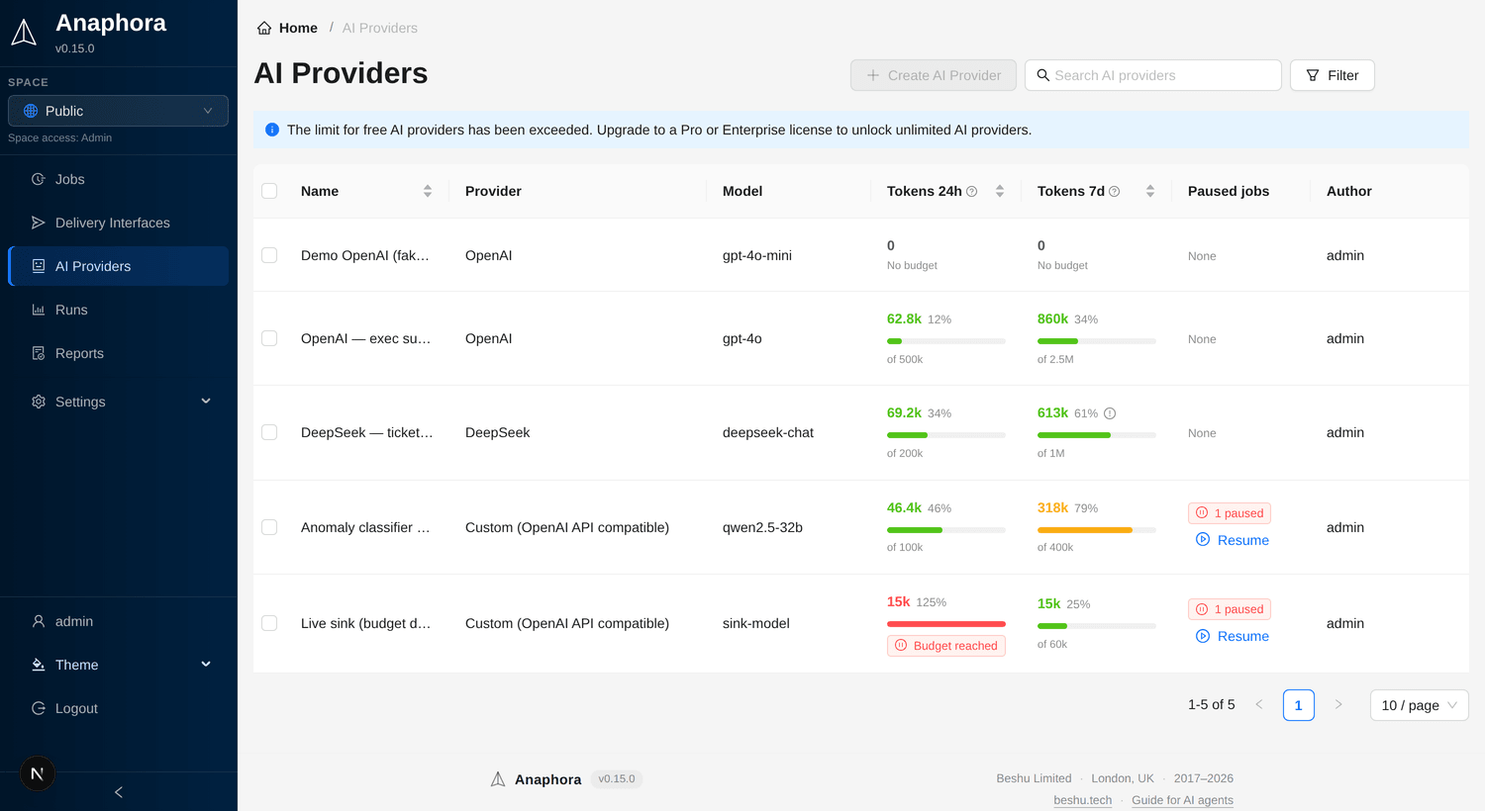
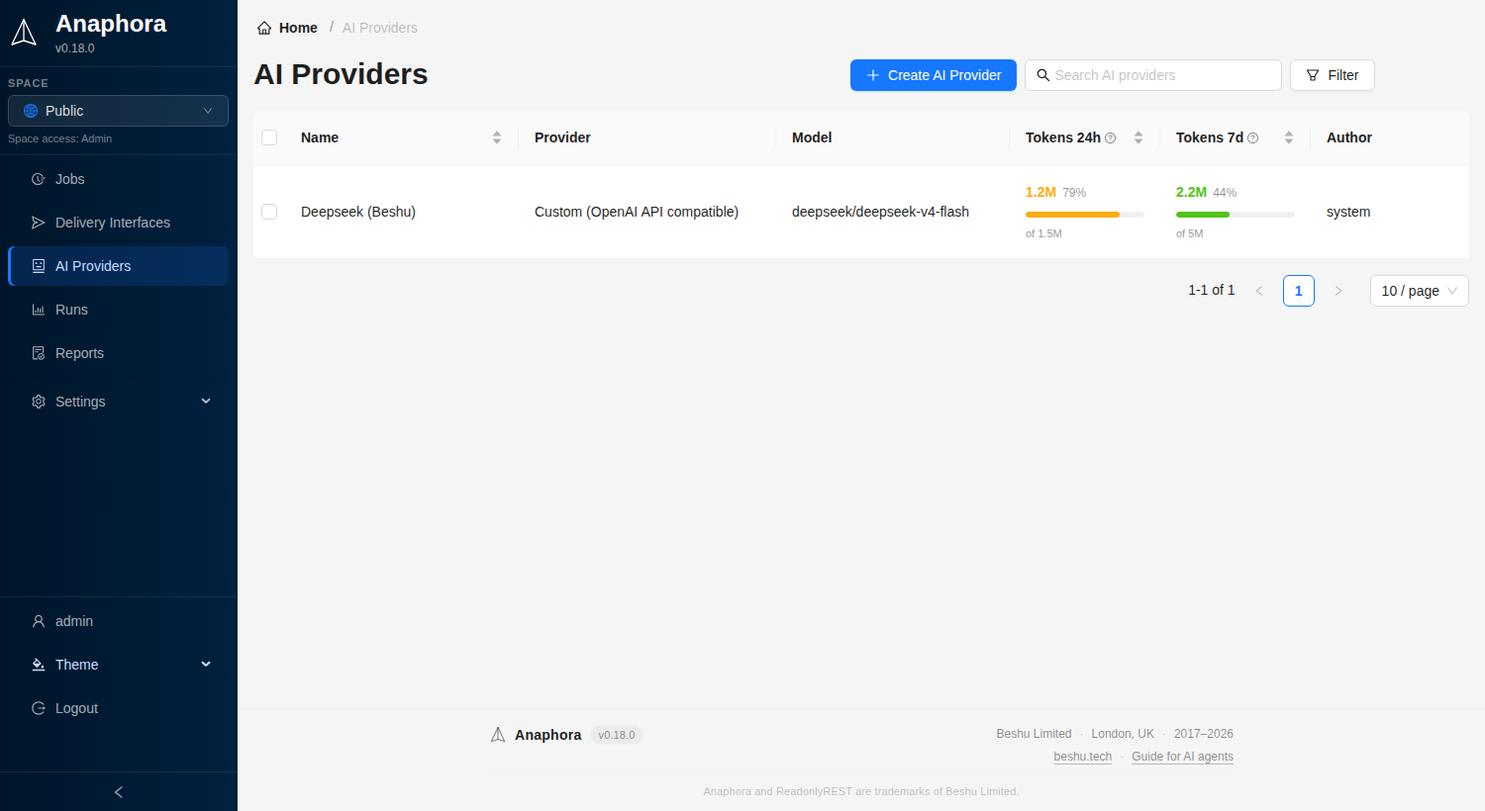
docs: the AI step and provider pages as F9 built them
An empty Time limit adds 60 seconds when the provider reasons: 120
with no tool, 150 with one. The line under the question of the
assistant follows the text: a question that asks for a trial says "It
may try the step." and counts three model calls. A trial on the values
of a run reads the notebook version that run read, and the trial card
says which. An answer gives at most one suggestion for each section.
The provider Test says why a step sends no answer schema. Look at
earlier runs gives the status in the words of the Runs page. The
assistant reads a yes/no block as "page_now is No".

Ten screenshots come from the production build of develop 5fe4c443.
The captions and the examples near each image give its numbers and
words. The Paused jobs column shows only when a budget paused a job.

diff --git a/docs/jobs/ai-step.md b/docs/jobs/ai-step.md
@@ -244,7 +244,8 @@ The tools of the step, in two groups.
   step fills. A run never reads from earlier runs a variable that **Can see** does not send. When you choose one, the
   section names it, for example "Can see does not send errorsNow, so the step does not read it from earlier runs."
   The AI gets the start time of each run in the time zone of the server (`TZ`), with the zone named, for example
-  "2026-10-11 19:48 Europe/Rome (UTC+02:00)", or "2026-10-11 17:48 UTC" on a server in UTC.
+  "2026-10-11 19:48 Europe/Rome (UTC+02:00)", or "2026-10-11 17:48 UTC" on a server in UTC. It gets the status of each
+  run as the Runs page shows it: "Success", "Error", "Delivery issue" or "Stopped at Break".
 - **Do exact math**: exact math on an expression, with the engine of the **Calculate** action.
 
 **Reaches out** (sends data out): **Browse**, **Fetch from the web** and **MCP servers**. These are not available yet.
@@ -284,12 +285,13 @@ notebook** in this step, a second line says so, for example "The new longest not
 you save the job." Until you save the job, **Save** keeps to the old limit.
 
 A run saves the notebook when the step ends, and only when the step succeeds or stops with **Keep what is filled in and
-go on**. Trials and Test captures read the notebook but never write it. A copy of the job, and a job made from a
-template, start with an empty notebook.
+go on**. Trials and Test captures read the notebook but never write it. A trial on the values of a run reads the
+version that run read: see [Try it](#try-it). A copy of the job, and a job made from a template, start with an empty
+notebook.
 
 #### Guardrails
 
-![Guardrails: every field empty, with the values that apply in grey (8 model calls, 12 tool calls, 29,000 tokens, 90 seconds, Provider default); "When a limit is reached"; and "What this step costs" from the trial of Oct 12, 00:04: 7,784 tokens a run, about 5.2M tokens a week, and no budget](images/ai-step-guardrails.png)
+![Guardrails: every field empty, with the values that apply in grey (8 model calls, 12 tool calls, 29,000 tokens, 150 seconds, Provider default); "When a limit is reached"; and "What this step costs" from the trial of Oct 12, 01:19: 11,394 tokens a run, every 15 minutes, about 7.7M tokens a week, and no budget](images/ai-step-guardrails.png)
 
 Limits on one run of the step, on top of the provider budget. An empty field shows in grey the value that applies,
 set from the step. Type a number to set your own. Until Anaphora has the estimate, an empty **Token cap for the step**
@@ -301,7 +303,7 @@ from its own values.
 | **Most model calls**       | Model calls                                              | With no tool: 1 for one plain answer (one variable, no yes/no, no **What it means**), 2 for a JSON answer (see [Fills in](#fills-in)). With a tool: 8                                                                       |
 | **Most tool calls**        | Tool calls                                               | With a tool: 12. With no tool: 0, and the field does not show unless the step sets it                                                                                                                                       |
 | **Token cap for the step** | Tokens of all the model calls together, input and output | Set from what the model gets, **Most model calls** and the hidden reasoning of the model: see below                                                                                                                         |
-| **Time limit**             | Seconds for the whole step                               | 60 with no tool, 90 with one. A step set up as before has no time limit                                                                                                                                                     |
+| **Time limit**             | Seconds for the whole step, 10 to 600                    | 60 with no tool, 90 with one, plus 60 when the provider reasons: 120 and 150 (see below). A step set up as before has no time limit                                                                                         |
 | **Answer length cap**      | Tokens of one answer                                     | The default of the provider                                                                                                                                                                                                 |
 
 An empty **Token cap for the step** gets:
@@ -322,6 +324,10 @@ For example, the step of the image above has a tool, and its first call sends ab
 of 29,000: 1,344 times 9, plus 8,000 twice, rounded up. On a provider whose Test saw no reasoning, the same step gets
 13,000. A step with no tool and a JSON answer that sends about 12,700 tokens gets 55,000: 12,700 times 3, plus 8,000
 twice, rounded up.
+
+An empty **Time limit** makes room for the hidden reasoning too, by the same rule: one model call can write 8,000
+tokens of reasoning, and that takes about 53 seconds. So a provider that reasons adds 60 seconds: 120 with no tool, 150
+with one. The step of the image above gets 150 seconds: 90 for its tool, plus 60.
 
 The token cap is checked before each model call: a call whose request would pass the cap is not made. Its answer is not
 known before, so a run can pass the cap by the answer of its last call. The tooltip of the field says the same. The
@@ -380,6 +386,11 @@ line at the top of the **Assistant** panel says which, for example "Values of th
 capture instead** and **Use the run instead** switch between the two. The assistant, **What the model gets** and the
 rows of [Can see](#can-see) use the same values.
 
+A trial on the values of a run reads what that run read: **Look at earlier runs** gets the runs before it, and the
+notebook is the version that run read, the last one saved before it started. **What the model gets** shows the same
+notebook. When **History** no longer keeps that version, the trial reads the notebook as it is now, and says so. A
+trial on a Test capture reads the notebook as it is now.
+
 A trial that takes more than 10 minutes stops with "The server did not finish in time. Try again." **What the model
 gets** stops the same way after 60 seconds.
 
@@ -403,34 +414,35 @@ The **Trial** panel shows:
 - **See every model call** and **What the model gets**;
 - the cost of a week at the schedule of the job, and its share of the provider budget, for example "Every 15 minutes,
   this costs about 1.1M tokens a week: 12% of the weekly budget of OpenAI." A provider with no budget gives no share,
-  for example "Every 15 minutes, this costs about 5.2M tokens a week. Deepseek (Beshu) has no budget." When the job is
+  for example "Every 15 minutes, this costs about 6.6M tokens a week. Deepseek (Beshu) has no budget." When the job is
   suspended, the line adds "The job is suspended now.". A daily job says "Daily at 04:05, this costs about …".
   A trial that did not finish gives no cost of a week, and the line says why, for example "This trial stopped at the
   time limit, so the cost of a week is not known.";
-- the notebook: what the trial would write, line by line, or "Not changed: the step wrote nothing new.";
+- the notebook: what the trial would write, line by line, or "Not changed: the step wrote nothing new." A line says
+  which version it read, for example "It read the notebook as that run did: saved Oct 12, 00:00.";
 - after a second trial, the previous trial in one line. **Compare** shows the two answers side by side, and marks each
   value that changed, or says "No change".
 
 **See every model call** opens **Every model call of the trial**. Each model call shows what it did ("Asks for Look at
 earlier runs · Read the notebook", "Answers"), its tokens and time. Open one to see the model request: its size and,
-for the first model call, the estimate by part, for example "Instructions 374 · Fills in 149 · Can do 452 · Notebook
-225 · errorsNow 4 · errors page 140"; the model response and how it ended ("ended with an answer", "asked for
+for the first model call, the estimate by part, for example "Instructions 374 · Fills in 149 · Can do 490 · Notebook
+228 · errorsNow 4 · errors page 140"; the model response and how it ended ("ended with an answer", "asked for
 tools"); and each tool call with its input and output. A long tool output is cut in the trace, and says so, for example
 "Cut: the trace keeps the first 8,192 characters of 21,394." **Copy trace** and **Raw JSON** are at the top. With two
 or more model calls, **Expand all** is there too.
 
-A model call with hidden reasoning gives its size in the heading, for example "11,779 tokens (7,830 reasoning) · 1.2 s",
-and in the model response, for example "7,950 tokens, of them 7,830 reasoning · asked for tools". See [Hidden
+A model call with hidden reasoning gives its size in the heading, for example "2,048 tokens (241 reasoning) · 2.8 s",
+and in the model response, for example "312 tokens, of them 241 reasoning · asked for tools". See [Hidden
 reasoning](#hidden-reasoning).
 
 Under the buttons, one line gives the limits that the trial applied, for example "Limits of this trial: 8 model calls,
-12 tool calls, 29,000 tokens and 90 seconds; a limit fails the run." A step with no tool gets 0 tool calls, and the
-line leaves them out, for example "Limits of this run: 2 model calls, 12,000 tokens and 60 seconds; a limit fails the
-run." With **Keep what is filled in and go on**, the line ends "at a limit the step keeps what it filled." A step set
+12 tool calls, 29,000 tokens and 150 seconds; a limit fails the run." A step with no tool gets 0 tool calls, and the
+line leaves them out, for example, on a provider that does not reason, "Limits of this run: 2 model calls, 12,000
+tokens and 60 seconds; a limit fails the run." With **Keep what is filled in and go on**, the line ends "at a limit the step keeps what it filled." A step set
 up before the AI step has no limit, for example "Limits of this run: none." A trace from before Anaphora kept the
 limits has no such line.
 
-![Every model call of the trial: 3 model calls, 3 tool calls and 7,784 tokens, the limits of the trial, and model call 1 open: it asks for Look at earlier runs and Read the notebook, with the request, the response with 60 tokens of reasoning, and the output of Look at earlier runs in local time](images/ai-step-every-step.png)
+![Every model call of the trial: 4 model calls, 4 tool calls, 11,394 tokens and 8.8 s; the limits of the trial, with 150 seconds; and model call 1 open, 2,048 tokens with 241 of reasoning: it asks for Look at earlier runs and Read the notebook, with the request and its estimate by part, the response, and the output of Look at earlier runs in local time, where two runs have the status "Stopped at Break"](images/ai-step-every-step.png)
 
 **What the model gets** opens what the first model call sends: the system message, the user message, how the answer is
 asked for (from **Fills in**), the tools it may call (from **Can do**), the tokens of each part, and **Not sent, and
@@ -458,16 +470,22 @@ How the answer is asked for follows the provider's **Test** (see
 
 ## The assistant
 
-![The assistant panel after one answer: the values of its trial (page_now No, errorTrend "steady", page_reason), "It spent 10,484 tokens over 3 model calls and 3 tool calls.", no change to the Conditional block, a group of 3 changes with Show each and Undo all, the trial with Open, "This answer: 35,245 tokens", and "An answer costs about 24,761 tokens."](images/ai-step-assistant.png)
+![The assistant panel after one answer, on the values of the run of Oct 12, 00:02: the question, which ends "Then try it."; the values of its trial (page_now: Yes, errorTrend: "worse", page_reason); its reasoning; "The trial made 3 model calls and 4 tool calls, and spent 8,357 tokens."; a group of 3 changes with Show each and Undo all; the trial with Open; "This answer: 33,387 tokens"; and, under the empty field, "An answer costs about 16,000 tokens. It tries the step only when you ask. A trial adds its own tokens."](images/ai-step-assistant.png)
 
 The **Assistant** panel is above the trial. It works on the same values as **Try it**. Write a question or a change in
-**Ask, or say what to change**, and click **Send**. The line under the field says what an answer costs, for example
-"An answer costs about 15,400 tokens. It tries the step only when you ask. A trial adds its own tokens." The estimate
-counts two model calls: one that makes the changes, and one that answers. An answer that tries the step makes one more:
-one model call asks for the trial, the next reads it, the last answers. After the answer, "This answer: 35,245
-tokens" says what it cost, its trials included. The line under the field then gives what that answer cost without the
-tokens of its trials, for example "An answer costs about 24,761 tokens.": 35,245 tokens minus the 10,484 tokens of
-the trial.
+**Ask, or say what to change**, and click **Send**. The line under the field says what an answer to the text in the
+field costs, and changes while you type:
+
+- A question that does not ask for a trial counts two model calls: one that makes the changes, and one that answers.
+  For example "An answer costs about 16,000 tokens. It tries the step only when you ask. A trial adds its own tokens."
+- A question that asks for a trial, and each question on the **Try** screen of a new step, counts one more: one model
+  call asks for the trial, the next reads it, the last answers. For example, before the question of the image went,
+  the line said "An answer costs about 25,800 tokens. It may try the step. A trial adds its own tokens."
+
+After the answer, "This answer: 33,387 tokens" says what it cost, its trials included: 25,030 tokens of the assistant
+and 8,357 of the trial. From then on, the line gives what the last answer of the same kind cost, without its trials:
+an answer that may try the step and one that may not each have their own figure. Until an answer of that kind comes,
+the line gives the estimate, as under the empty field of the image.
 
 The assistant may change this step, and only this step: the title, the **Instructions**, **Fills in**, **Can see**, the
 tools that stay in Anaphora, **Remembers** and **Guardrails**. Each change is a card with its reason, and goes into the
@@ -486,13 +504,18 @@ step at once.
 
 Other things it only proposes, as a card for you to decide:
 
+- A change of the step that you did not ask for: a suggestion. **Apply** puts it into the step, and **Undo** takes it
+  back. A suggestion replaces the whole section, so one answer gives at most one suggestion for each section, with
+  every change of that section in it. When the assistant suggests a section again in the same answer, the new card
+  takes the place of the old one. A card that you applied stays, and the new one comes after it.
 - **Something to add to the flow**, for example a snapshot before the step: **Add it** puts a **Navigate** with a
   snapshot before the step, and **I have one** sets the card aside.
 - **A Conditional block and a Break after this step**, when the report must go out only in some runs. The card says
   when the run stops, for example "The run stops when page_now is No.". **Add them** puts the block and its **Break**
   after the step, and **Open the block** opens it. **Set aside** closes the card. The assistant gets the actions after
-  the step. When a Conditional block with a **Break** after the step already tests the variable, it proposes no second
-  one, and says in words what to change in it, if anything.
+  the step, and reads a block on a **yes/no** variable as the editor shows it, for example "page_now is No". When a
+  Conditional block with a **Break** after the step already tests the variable, it proposes no second one, and says in
+  words what to change in it, if anything.
 - **A tool that reaches out of Anaphora**: not available yet. **Set aside** closes the card.
 - **Something to check** in another part of the flow: **Set aside** closes the card.
 
@@ -505,8 +528,8 @@ The assistant writes a time as the editor shows it, in your time zone and with n
 Oct 11, 16:02" or "the trial of Oct 11, 16:03". A time from earlier runs or from the notebook keeps the zone it names.
 It says a **yes/no** value as "Yes" or "No", as the editor shows it, and describes a **yes/no** variable as "yes when
 …, no otherwise". It gives each value of a trial word for word, as the trial shows it: a text in quotes, a **yes/no** or
-a number with no quotes, for example page_now: No and errorTrend: "steady". It writes a count with a comma between the
-thousands, for example "It spent 10,484 tokens over 3 model calls and 3 tool calls."
+a number with no quotes, for example page_now: Yes and errorTrend: "worse". It writes a count with a comma between the
+thousands, for example "The trial made 3 model calls and 4 tool calls, and spent 8,357 tokens."
 
 Its tokens count on the provider budget, like a trial. One answer stops at 12 model calls, 60,000 tokens or 120
 seconds. The answer then says which limit stopped it, and the changes so far stay. A fourth trial in one answer is
@@ -524,12 +547,12 @@ explanation is one model call with no tool: the assistant reads a short summary 
 nothing. The estimate adds about 3,800 tokens for the [hidden reasoning](#hidden-reasoning) of a model that thinks. It
 leaves them out when the trace shows no reasoning in any model call.
 
-The answer comes under **Explained by the assistant**, with suggestions. **Apply** puts a suggestion into the step, and
-**Undo** takes it back. A proposal for the flow comes as a card, as in the panel. With nothing to change, it says "The
-assistant suggests no change." **Ask again** asks once more. "This answer: N tokens" says what it cost, for example
-"This answer: 12,366 tokens".
+The answer comes under **Explained by the assistant**, with suggestions: at most one for each section, as in the
+panel. **Apply** puts a suggestion into the step, and **Undo** takes it back. A proposal for the flow comes as a card,
+as in the panel. With nothing to change, it says "The assistant suggests no change." **Ask again** asks once more.
+"This answer: N tokens" says what it cost, for example "This answer: 10,307 tokens".
 
-![Explained by the assistant, under the three model calls of the trial: "This answer: 12,366 tokens", why page_now is No, three suggestions with Apply (two for Can do, one for Instructions), and Ask again](images/ai-step-explain.png)
+![Explained by the assistant, under the four model calls of the trial, closed, and the limits of the trial, with 150 seconds: "This answer: 10,307 tokens", and why the trial filled page_now = Yes and errorTrend = "worse"](images/ai-step-explain.png)
 
 On the Runs page, the same button is **Explain this run**. There, a suggestion has **Open the step** instead of
 **Apply**: open the step, then make the change in the editor. **Explain this run** and **Open the step** need write
@@ -598,7 +621,7 @@ answer, and count on the provider budget. With a tool, the reasoning goes back t
 call counts it. **See every model call** shows the reasoning of each model call: see [Try it](#try-it).
 
 The **Test** of the provider notes whether the model writes hidden reasoning. Unless the Test saw none, the token cap
-that Anaphora sets for a step makes room for it: see [Guardrails](#guardrails).
+and the time limit that Anaphora sets for a step make room for it: see [Guardrails](#guardrails).
 
 ## For AI agents and scripts
 

diff --git a/docs/administration/ai-providers.md b/docs/administration/ai-providers.md
@@ -83,15 +83,18 @@ answer, then **What this model can do**:
 
 Under a **No**, a short line says why, for example "The endpoint refused an image."
 
-The Test also records two things that the window does not list:
+When JSON answers work but the Test did not prove the schema, a line under **Gives structured answers (JSON)** says
+why, for example "The call with the answer schema failed, so a step asks for a JSON object without it. The error is
+under Details." The other reasons are "The endpoint refused the answer schema, …" and "The answer did not fit the answer
+schema, …". The line shows only after a Test, in the window and on the card under the form. After a reload, the card
+does not show it. The API gives it as `reasons.jsonSchema`. When the call with the schema fails, its error also goes
+to the log of Anaphora.
 
-- Whether the schema is proved: after a Test, always yes or no. The API gives the reason of a no
-  (`reasons.jsonSchema`). When the call with the schema fails, its error shows under **Details** and in the log of
-  Anaphora.
-- Whether the model writes hidden reasoning. Unless the Test saw none, the token cap that Anaphora sets for an AI step
-  makes room for it: see [Guardrails](../jobs/ai-step.md#guardrails).
+The Test also records whether the model writes hidden reasoning. The window does not list it. Unless the Test saw
+none, the token cap and the time limit that Anaphora sets for an AI step make room for it: see
+[Guardrails](../jobs/ai-step.md#guardrails).
 
-![The Test the AI provider window: the note "The Test makes four or five model calls", the answer "Hello!", then Answers a prompt, Uses tools, Gives structured answers (JSON) and Reads images: all Yes; Details, closed; and "Saved with the provider."](images/ai-provider-test.png)
+![The Test the AI provider window after a Test: the note "The Test makes four or five model calls", the answer "Hello!", then Answers a prompt, Uses tools, Gives structured answers (JSON) and Reads images: all Yes; under Gives structured answers (JSON), "The call with the answer schema failed, so a step asks for a JSON object without it. The error is under Details."; Details, closed; and "Saved with the provider."](images/ai-provider-test.png)
 
 When the Test runs on the saved settings of the provider, it keeps the result: the window says "Saved with the
 provider." Otherwise, it says "Save the provider to keep this result.": click **Save** to keep it. The card **What this
@@ -103,7 +106,7 @@ for example "The model did not answer. Correct the model or the endpoint, then s
 refused the API key. Correct the key, then send the test again." **Details** shows the error of the endpoint. A failed
 Test lists no ability and keeps nothing: **Save** stores nothing from it.
 
-![The card What this model can do: tested today at 11:04, three abilities Yes and Reads images No](images/ai-provider-abilities.png)
+![The card What this model can do after a reload: "Tested Today at 01:24.", and the four abilities Yes, with no line under Gives structured answers (JSON)](images/ai-provider-abilities.png)
 
 :::note Free edition
 The Free edition allows one AI provider per space.
@@ -169,7 +172,7 @@ runs instead of capturing the hour before, and its notebook replaces the throttl
 Every AI provider shows the tokens it spent in the last 24 hours and in the last 7 days (the **Tokens 24h** and
 **Tokens 7d** columns). You can give each window a budget. The windows roll: "the last 24 hours" is not "since midnight".
 
-![AI providers list with the two token columns](images/ai-budget-providers-list.png)
+![The AI Providers list with one provider, Deepseek (Beshu): Tokens 24h 1.2M, 79% of a budget of 1.5M, with a yellow bar; and Tokens 7d 2.2M, 44% of 5M, with a green bar](images/ai-budget-providers-list.png)
 
 Usage counts every model call: scheduled and manual runs (a retry counts as a scheduled run), test runs, Test captures,
 trials of AI steps (**Try it**), the AI step assistant and the **Test** button on the provider form. The tooltip of each
@@ -216,7 +219,7 @@ up. The card then says what will happen.
 ### Resuming paused jobs
 
 Raising the budget does not switch the paused jobs back on. On the AI Providers list, the **Paused jobs** column counts
-the jobs that the budget paused. Click **Resume** to switch those jobs back on, and only those. The question names the
+the jobs that the budget paused. The column shows only when a budget paused a job. Click **Resume** to switch those jobs back on, and only those. The question names the
 count, for example "Resume 1 job? It runs on its schedule again.", and the message after it says how many resumed:
 "1 job resumed." When the budget is still reached, the next AI call pauses the job again.
 

diff --git a/docs/administration/agent-api.md b/docs/administration/agent-api.md
@@ -88,7 +88,8 @@ and the agent binds a job to them by their ID.
 A call to `/api/spaces/…` from another origin is refused (403), whatever its method, even with the session cookie.
 `GET /api/agent/context` answers every caller: with no session, it answers 401 and names the login page.
 
-A run that a **Break** stopped has the status `cancelled` in the API; the pages show it as **Stopped at Break**.
+A run that a **Break** stopped has the status `cancelled` in the API; the pages, and the earlier runs that an AI step
+reads, show it as **Stopped at Break**.
 
 A job write sets `stepVersion: 2` on each AI step that it adds: every AI step of a `POST`, and each AI step with a new
 id in a `PUT`. Such a step gets the new settings, as in the editor. A stored step keeps its form. A `PUT` of a job or a
@@ -105,6 +106,9 @@ message asks for a trial, or `mayTry: true`) counts three model calls, else two.
 Send the values of a Test capture with its `startedAt`: the model is told when its values were captured. Without it,
 the model gets the start of the trial. The `answerFormat` of a preview says how the request asks for the answer
 (`schema`, `jsonObject` or `instructions`); `outputSchema` is there only when the request sends it.
+
+A trial on a run reads the notebook that run read, and a trial on a Test capture the notebook now. The trace says
+which version it read (`notebook.read`).
 
 `run`, `preview` and `test` answer with a stream (`text/event-stream`). The last event, `end`, carries the result. A
 preview or a test takes as long as the page takes to load, often 10 to 60 seconds.

diff --git a/docs/data-retention/runs.md b/docs/data-retention/runs.md
@@ -6,7 +6,7 @@ keywords: [ job runs, execution history, run status, debugging, job monitoring, 
 
 # Runs
 
-![Runs page showing job execution history with job name, type, timestamp, duration, status, and attempts columns](images/runs.png)
+![The Runs page with two filters on, the job Checkout errors and the statuses Success and Stopped at Break: Clear next to Delete ALL, and the columns Job name, Type, Time, Duration, Status, Attempts, AI and Report](images/runs.png)
 
 The Runs section shows the execution history of your jobs, including successful captures, failures, and delivery status.
 
@@ -31,6 +31,8 @@ Each time a job runs, Anaphora makes a run record. Use it to:
 Click an **Error** or **Delivery issue** tag to see the details.
 
 When a filter or a sort is on, **Clear**, at the top of the page next to **Delete ALL**, removes them.
+
+The **AI** column says what the AI steps of each run cost: see [Runs](../jobs/ai-step.md#runs).
 
 ## Retries and attempts
 

diff --git a/docs/advanced-examples/ai-news-collation.md b/docs/advanced-examples/ai-news-collation.md
@@ -42,7 +42,7 @@ provider.
 
 Switch on **Advanced**. Add a **Navigate** action for each source, then an **AI step** below them:
 
-![The capture flow: two Navigate actions, for Hacker News and Lobsters, then an AI action that writes the summary variable](images/ai-news-collation-capture.png)
+![The capture flow, shown here for a job with other sources: two Navigate actions, Open the NPR headlines and Open the CNN headlines, then the AI step "Summarize the news", which fills summary](images/ai-news-collation-capture.png)
 
 1. **Navigate**, one for each source:
    - **Connector**: **Web**.

diff --git a/docs/getting-started/index.md b/docs/getting-started/index.md
@@ -103,7 +103,7 @@ deployments.
 - Advanced capture workflows for complex navigation paths
 - Multi-step browser automation for authenticated applications
 
-![Advanced capture mode with available browser actions](images/actions-dropdown.png)
+![Advanced capture mode: the menu of the + between two actions, with Navigate, Click, Type text, Capture snapshot, Capture value, AI step, Wait for visible and Reload, each with a line that says what it does](images/actions-dropdown.png)
 
 *Advanced mode has a full set of browser automation actions for complex workflows.*
 
